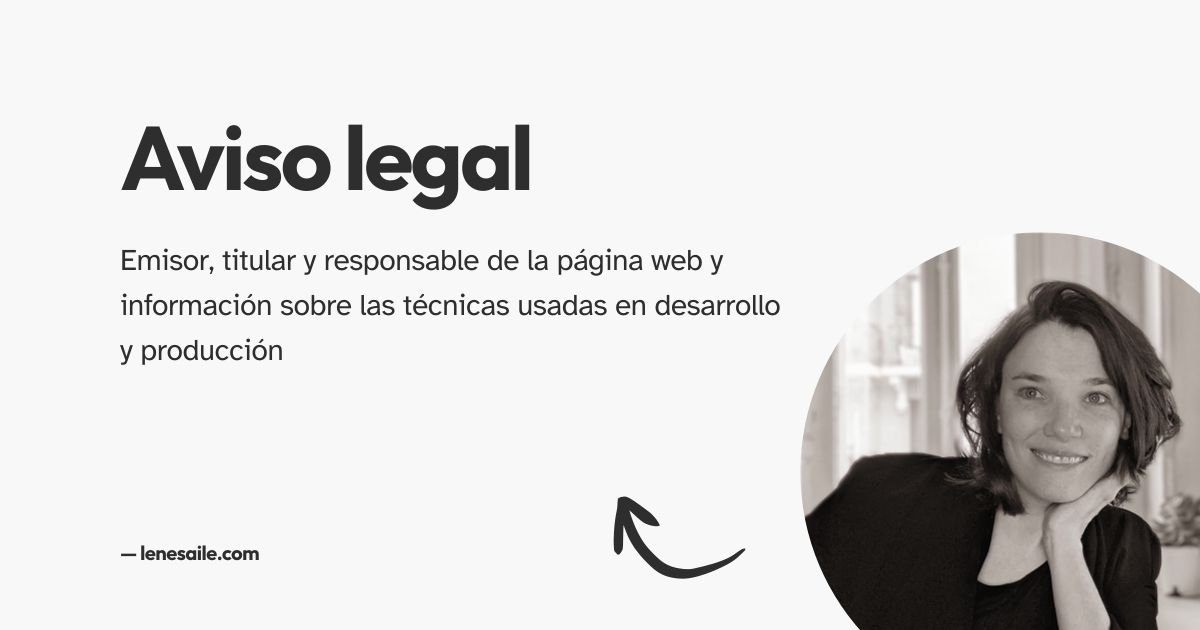
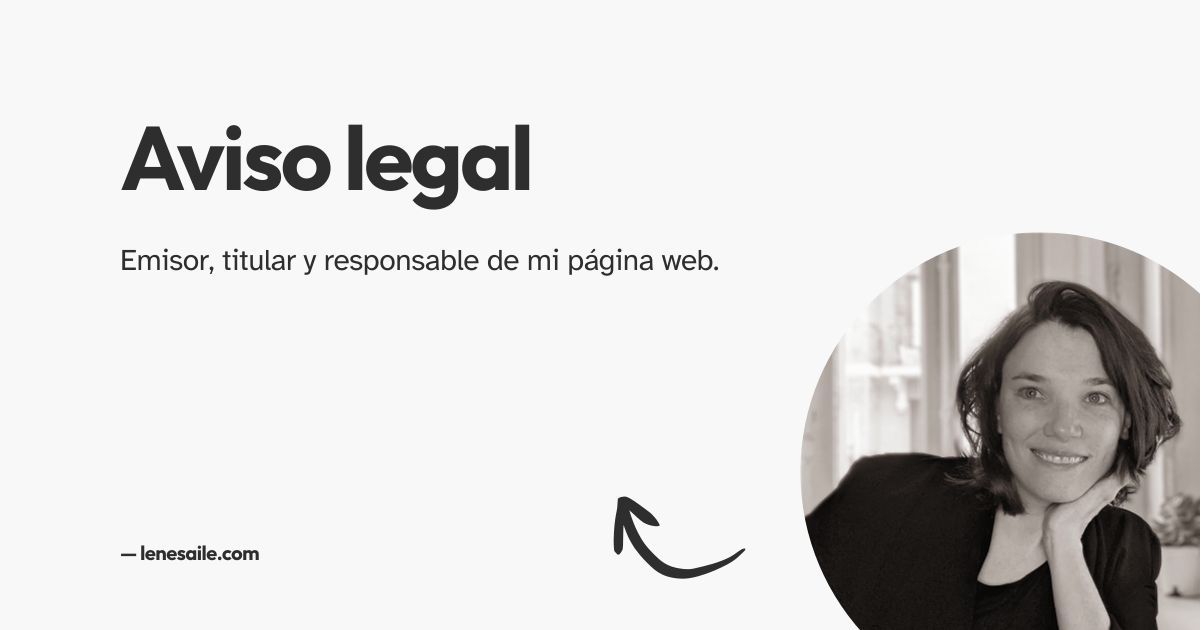
update more metas

Changed region(s): [[0.0925, 0.3921, 0.6475, 0.5127], [0.0925, 0.5429, 0.2467, 0.573]]

diff --git a/src/content/pages/es/legal.md b/src/content/pages/es/legal.md
@@ -3,7 +3,7 @@ title: Aviso legal
 permalink: /{{ lang }}/aviso-legal/index.html
 redirectFrom: [/aviso-legal/]
 key: 'legal'
-description: Emisor, titular y responsable de la página web y información sobre las técnicas usadas en desarrollo y producción
+description: Emisor, titular y responsable de mi página web.
 layout: page
 ---
 

diff --git a/src/content/pages/de/legal.md b/src/content/pages/de/legal.md
@@ -2,7 +2,7 @@
 title: Impressum
 permalink: /{{ lang }}/impressum/index.html
 key: 'legal'
-description: Verpflichtende Infos zu Eigentümer und Verantworktlichkeit für meine Website
+description: Verpflichtende Infos zu Eigentümer und Verantworktlichkeit für meine Website.
 layout: page
 ---
 

diff --git a/src/content/pages/en/legal.md b/src/content/pages/en/legal.md
@@ -2,7 +2,7 @@
 title: Legal notice
 permalink: /{{ lang }}/imprint/index.html
 key: 'legal'
-description: I am issuer, owner and responsible for the web site
+description: I am issuer, owner and responsible for this web site.
 layout: page
 ---
 
